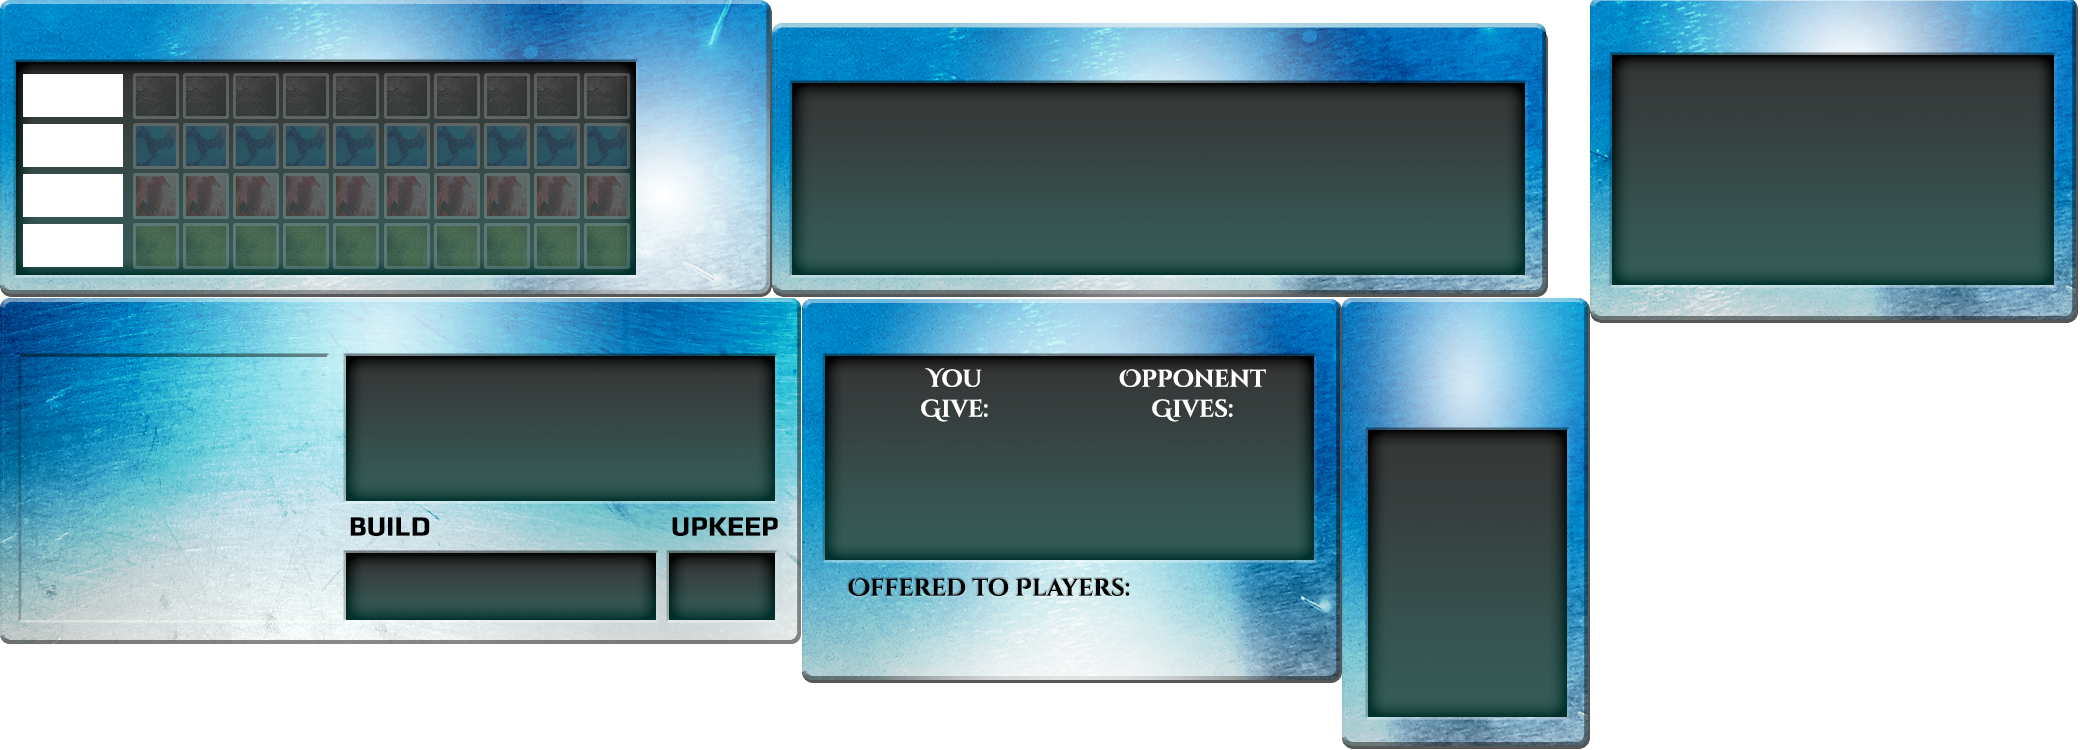
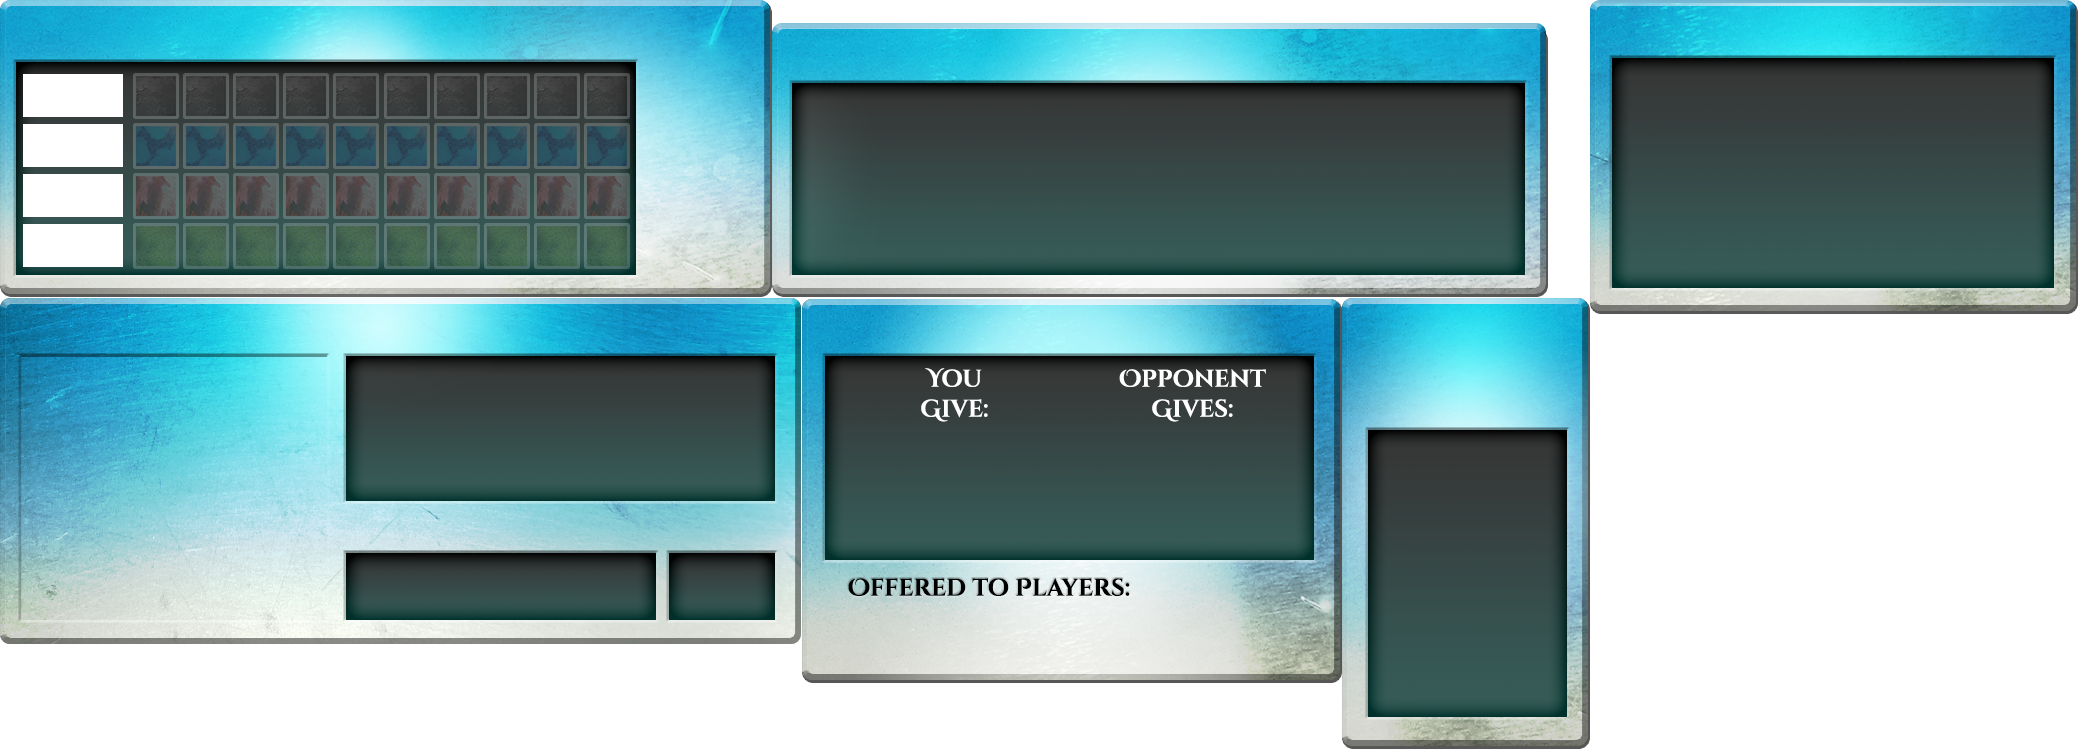
menu color improvements

Changed region(s): [[0.0, 0.0, 1.0, 1.0], [0.1562, 0.6747, 0.2188, 0.736]]

diff --git a/client/game_ux.js b/client/game_ux.js
@@ -26,11 +26,7 @@ var DOMimageMap = [
 	{ elmt: '.food-icon', path: 'interface/', img: 'res_food_icon'},
 	{ elmt: '.points-icon', path: 'interface/', img: 'points_icon'},
 	{ elmt: '.color-menu', path: 'interface/', img: 'menus_p', player: true},
-	// { elmt: '#resources-menu-div', path: 'interface/', img: 'menus_p', player: true},
-	// { elmt: '#structures-menu-div', path: 'interface/', img: 'menus_p', player: true},
-	// { elmt: '#agents-menu-div', path: 'interface/', img: 'menus_p', player: true},
 	{ elmt: '#trade-button', path: 'interface/', img: 'trade_button'},
-	// { elmt: '#trade-menu-div', path: 'interface/', img: 'menus_p', player: true},
 	{ elmt: '.trade-arrow-up', path: 'interface/', img: 'trade_arrow_button'},
 	{ elmt: '.trade-arrow-down', path: 'interface/', img: 'trade_arrow_button'},
 	{ elmt: '.trade-radio-button', path: 'interface/', img: 'trade_radio_button'},
@@ -44,11 +40,12 @@ var DOMimageMap = [
 	{ elmt: '.respkg-collect-div', path: 'interface/', img: 'collect_menu'},
 	{ elmt: '.respkg-upkeep-div', path: 'interface/', img: 'upkeep_menu'},
 	{ elmt: '.respkg-arrow-div', path: 'interface/', img: 'resources_arrow', ext: '.gif'},
-	{ elmt: '.struct-mine-button', path: 'interface/', img: 'structmine_button'},
-	{ elmt: '.struct-factory-button', path: 'interface/', img: 'structfactory_button'},
-	{ elmt: '.struct-embassy-button', path: 'interface/', img: 'structembassy_button'},
-	{ elmt: '.struct-base-button', path: 'interface/', img: 'structbase_button'},
-	{ elmt: '.struct-fleet-button', path: 'interface/', img: 'structfleet_button'},
+	{ elmt: '.struct-button', path: 'interface/', img: 'struct_buttons_p', player: true},
+	// { elmt: '.struct-mine-button', path: 'interface/', img: 'structmine_button'},
+	// { elmt: '.struct-factory-button', path: 'interface/', img: 'structfactory_button'},
+	// { elmt: '.struct-embassy-button', path: 'interface/', img: 'structembassy_button'},
+	// { elmt: '.struct-base-button', path: 'interface/', img: 'structbase_button'},
+	// { elmt: '.struct-fleet-button', path: 'interface/', img: 'structfleet_button'},
 	{ elmt: '#agent-button-explorer', path: 'interface/', img: 'agentexplorer_button'},
 	{ elmt: '#agent-button-miner', path: 'interface/', img: 'agentminer_button'},
 	{ elmt: '#agent-button-surveyor', path: 'interface/', img: 'agentsurveyor_button'},
@@ -759,7 +756,7 @@ var updateStructuresMenu = function() {
 	var innerHTML = '<tr>';
 	for ( var i = 0; i < 4; i++ ){
 		innerHTML += (i < structures[OBJ_MINE] ? 
-				  '<td><input type="button" class="struct-mine-button"'
+				  '<td><input type="button" class="struct-button struct-mine-button"'
 				  + 'onclick="javascript:clickStructureButton(OBJ_MINE);"></input></td>':
 				  '<td width="34px" height="34px"></td>');
 	}
@@ -769,7 +766,7 @@ var updateStructuresMenu = function() {
 	innerHTML = '<tr>';
 	for ( var i = 0; i < 3; i++ ){
 		innerHTML += (i < structures[OBJ_FLEET] ? 
-				  '<td><input type="button" class="struct-fleet-button"'
+				  '<td><input type="button" class="struct-button struct-fleet-button"'
 				  + 'onclick="javascript:clickStructureButton(OBJ_FLEET);"></input></td>':
 				  '<td width="42px" height="33px"></td>');
 	}
@@ -779,7 +776,7 @@ var updateStructuresMenu = function() {
 	innerHTML = '<tr>';
 	for ( var i = 0; i < 3; i++ ){
 		innerHTML += (i < structures[OBJ_FACTORY] ? 
-				  '<td><input type="button" class="struct-factory-button"'
+				  '<td><input type="button" class="struct-button struct-factory-button"'
 				  + 'onclick="javascript:clickStructureButton(OBJ_FACTORY);"></input></td>':
 				  '<td width="34px" height="50px"></td>');
 	}
@@ -789,7 +786,7 @@ var updateStructuresMenu = function() {
 	innerHTML = '<tr>';
 	for ( var i = 0; i < 5; i++ ){
 		innerHTML += (i < structures[OBJ_EMBASSY] ? 
-				  '<td><input type="button" class="struct-embassy-button"'
+				  '<td><input type="button" class="struct-button struct-embassy-button"'
 				  + 'onclick="javascript:clickStructureButton(OBJ_EMBASSY);"></input></td>':
 				  '<td width="37px" height="50px"></td>');
 	}
@@ -797,7 +794,7 @@ var updateStructuresMenu = function() {
 	$('#struct-embassies-div').find('.struct-table').html(innerHTML);
 
 	innerHTML = (structures[OBJ_BASE] > 0 ? 
-			  '<input type="button" class="struct-base-button"'
+			  '<input type="button" class="struct-button struct-base-button"'
 			  + 'onclick="javascript:clickStructureButton(OBJ_BASE);"></input>':
 			  '');
 	$('#struct-base-div').html(innerHTML);

diff --git a/client/game.css b/client/game.css
@@ -110,7 +110,7 @@
 	position: absolute;
 	opacity: 0.0;
 	right: 5px;
-	bottom: 172px;
+	bottom: 160px;
 	width: 124px; 
 	height: 226px;
 	background-position: -671px -149px;
@@ -619,7 +619,7 @@
 #agents-menu-div {
 	right: 0px;
 	width: 244px;
-	height: 161px;
+	height: 157px;
 	background-position: -795px 0px;
 }
 
@@ -861,7 +861,7 @@
 	top: 36px;
 	left: 170px;
 	width: 126px;
-	height: 33px;
+	height: 34px;
 }
 
 #struct-factories-div {
@@ -890,45 +890,49 @@
 	height: 100%;
 }
 
-.struct-mine-button, .struct-factory-button, .struct-embassy-button, .struct-base-button,
-.struct-fleet-button {
+.struct-button {
 	background-color: transparent;
+	background-size: 292px 84px;
 }
 
 .struct-mine-button {
 	width: 34px;
 	height: 34px;
+	background-position: -140px -50px;
 }
 
 .struct-mine-button:hover {
-	background-position: -34px;
+	background-position: -174px -50px;
 }
 
 .struct-factory-button {
 	width: 34px;
 	height: 50px;
+	background-position: -140px 0;
 }
 
 .struct-factory-button:hover {
-	background-position: -34px 0;
+	background-position: -174px 0;
 }
 
 .struct-embassy-button {
 	width: 37px;
 	height: 50px;
+	background-position: -208px 0;
 }
 
 .struct-embassy-button:hover {
-	background-position: -37px 0;
+	background-position: -245px 0;
 }
 
 .struct-fleet-button {
 	width: 42px;
-	height: 33px;
+	height: 34px;
+	background-position: -208px -50px;
 }
 
 .struct-fleet-button:hover {
-	background-position: -42px 0;
+	background-position: -250px -50px;
 }
 
 .struct-base-button {
@@ -937,6 +941,7 @@
 	left: 0px;
 	width: 70px;
 	height: 70px;
+	background-position: 0 0;
 }
 
 .struct-base-button:hover {

diff --git a/client/selection.js b/client/selection.js
@@ -3,7 +3,7 @@
  * on rollover
  */
 
-var color = ["#fb4944","#4a2cff", "#76f339", "#f8ef42"];
+var color = ["#fb4944","#11a7d6", "#76f339", "#f8ef42"];
 
 var initSelection = function() {
 
